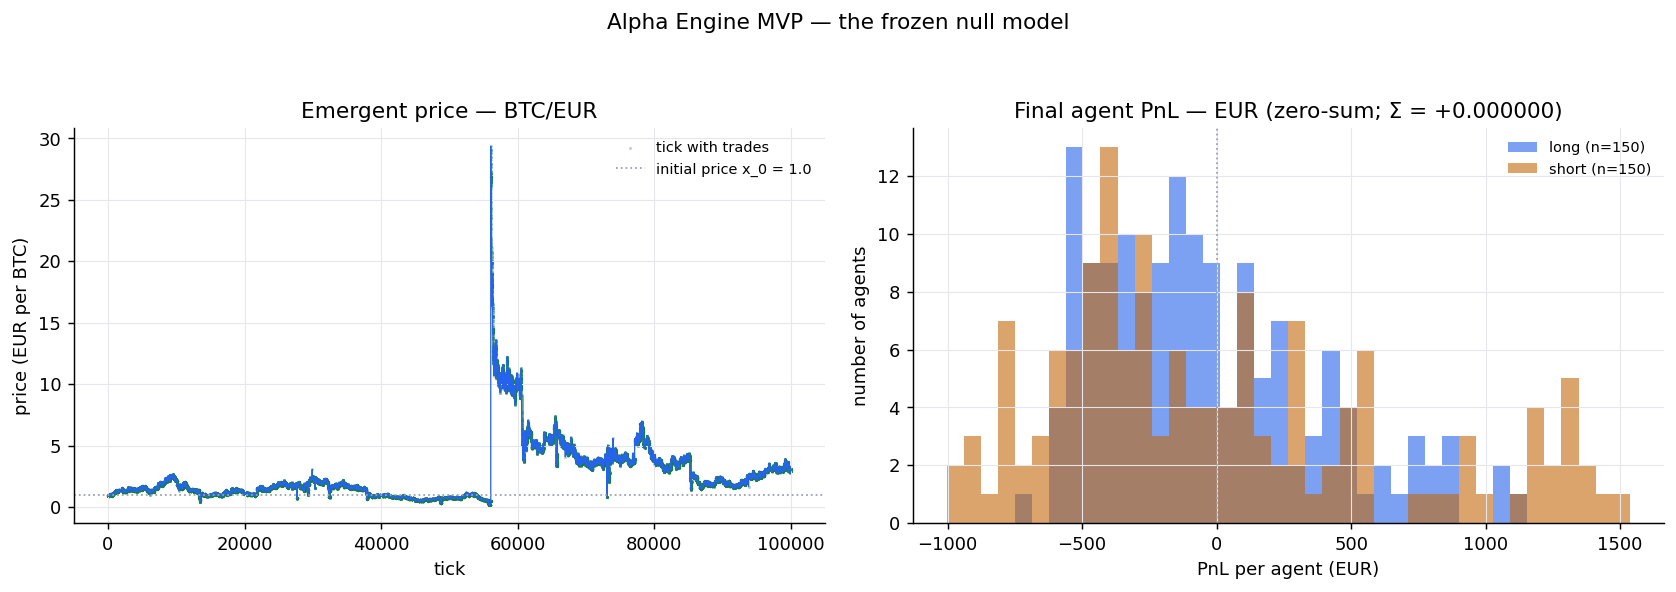
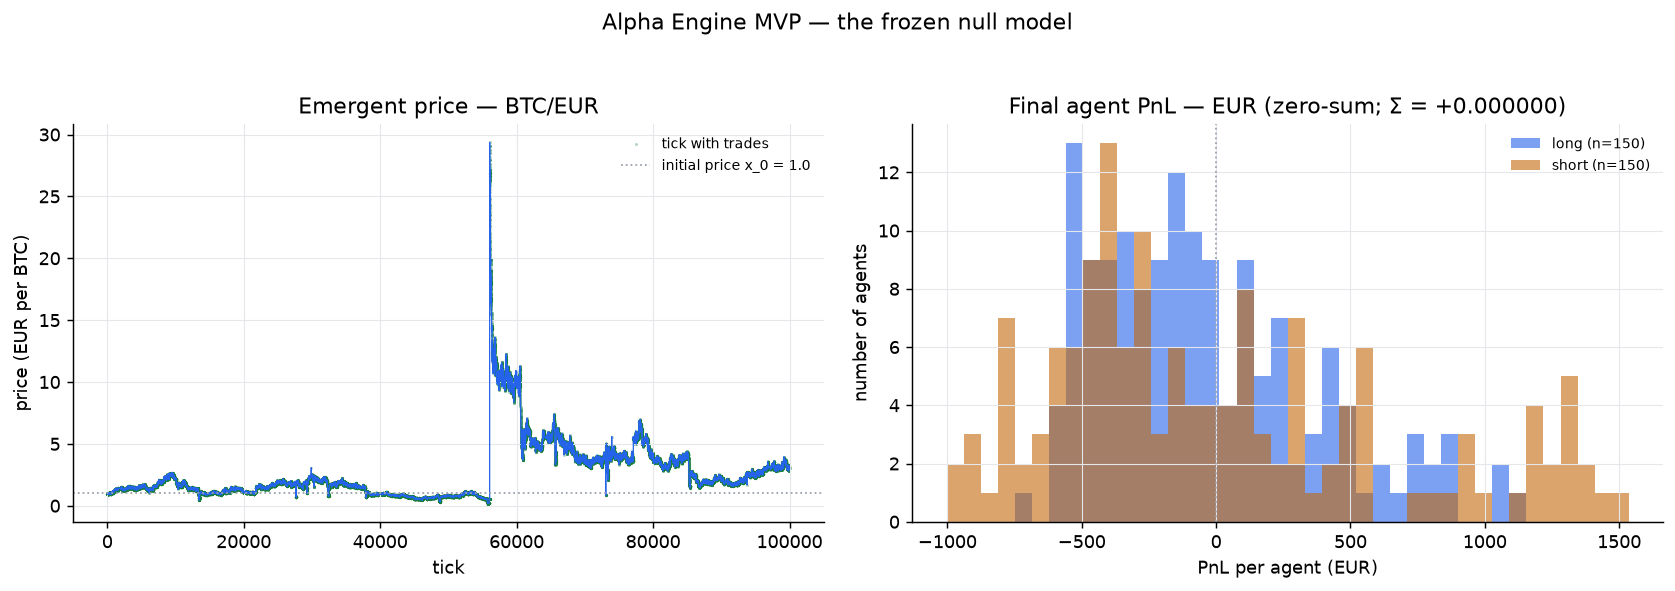
housekeeping

diff --git a/NULL/simulation_mvp.py b/NULL/simulation_mvp.py
@@ -1233,6 +1233,12 @@ class Simulation:
 # ═════════════════════════════════════════════════════════════════════════════
 
 if __name__ == "__main__":
+    import os
+
+    # all outputs land NEXT TO THIS FILE (the NULL/ dir), never in the CWD:
+    # relative paths would scatter pngs/csvs into whatever dir you ran from.
+    HERE = os.path.dirname(os.path.abspath(__file__))
+
     # ---------------- edit these ----------------
     N = 150          # agents per side
     T = 100_000      # ticks
@@ -1240,15 +1246,19 @@ if __name__ == "__main__":
     CAPITAL_DIST = "pareto"   # block 2a: "pareto" | "normal"
     BAND_DIST = "fixed"       # block 2b: "fixed"  | "normal"
     CLOSING = "clock"         # block 2c: "clock"  | "normal"
+    SHOW = True               # pop the figures in the IDE (they save either way)
     # --------------------------------------------
     cfg = Config(n=N, T=T, seed=SEED, capital_dist=CAPITAL_DIST,
                  band_dist=BAND_DIST, closing=CLOSING)
     print(cfg.summary())
     sim = Simulation(cfg).run()
     print(sim.summary())
-    print("wrote:", sim.write_price_csv(), sim.write_trades_csv())
+    print("wrote:",
+          sim.write_price_csv(os.path.join(HERE, "price_btc_eur.csv")),
+          sim.write_trades_csv(os.path.join(HERE, "trades_mvp.csv")))
 
     from dashboard_mvp import plot_dashboard, plot_orderbook
-    plot_dashboard(sim, save_path="dashboard_mvp.png")
-    plot_orderbook(sim, save_path="orderbook_mvp.png")
-    print("wrote: dashboard_mvp.png, orderbook_mvp.png")
+    plot_dashboard(sim, save_path=os.path.join(HERE, "dashboard_mvp.png"), show=SHOW)
+    plot_orderbook(sim, save_path=os.path.join(HERE, "orderbook_mvp.png"), show=SHOW)
+    print("wrote:", os.path.join(HERE, "dashboard_mvp.png"),
+          os.path.join(HERE, "orderbook_mvp.png"))

diff --git a/NULL/dashboard_mvp.py b/NULL/dashboard_mvp.py
@@ -43,8 +43,6 @@ def _bin_mean(x: np.ndarray, y: np.ndarray, n_bins: int = 300):
 
 def plot_dashboard(sim, save_path: str = "dashboard_mvp.png", show: bool = False):
     """The two-panel MVP dashboard: price evolution + final PnL distribution."""
-    import matplotlib
-    matplotlib.use("Agg")
     import matplotlib.pyplot as plt
 
     t = np.asarray(sim.rec_tick)
@@ -93,8 +91,9 @@ def plot_dashboard(sim, save_path: str = "dashboard_mvp.png", show: bool = False
     fig.tight_layout(rect=(0, 0, 1, 0.94))
     fig.savefig(save_path, dpi=130, bbox_inches="tight")
     if show:
-        plt.show()
-    plt.close(fig)
+        plt.show()          # pops the IDE window; returns when it is closed
+    else:
+        plt.close(fig)
     return save_path
 
 
@@ -108,8 +107,6 @@ def plot_orderbook(sim, save_path: str = "orderbook_mvp.png", show: bool = False
       asks = resting SELL orders — mostly LONGS' take-profit sells, above
              the price, plus flat shorts' resting entry residuals.
     Liquidity here is other agents' unrealized profit, waiting."""
-    import matplotlib
-    matplotlib.use("Agg")
     import matplotlib.pyplot as plt
 
     t = np.asarray(sim.rec_tick)
@@ -178,6 +175,7 @@ def plot_orderbook(sim, save_path: str = "orderbook_mvp.png", show: bool = False
     fig.tight_layout(rect=(0, 0, 1, 0.93))
     fig.savefig(save_path, dpi=130, bbox_inches="tight")
     if show:
-        plt.show()
-    plt.close(fig)
+        plt.show()          # pops the IDE window; returns when it is closed
+    else:
+        plt.close(fig)
     return save_path

diff --git a/NULL/verify/verify_mvp.py b/NULL/verify/verify_mvp.py
@@ -21,9 +21,19 @@ eyeball check: verify_default.png, verify_n2.png.
 
 from __future__ import annotations
 
+import os
+import sys
 import time
 
 import numpy as np
+
+# this file lives in NULL/; the reference (legacy) engine lives one level up,
+# in the repo root. Put the root on the path so its modules import, and
+# anchor our output PNGs next to this file instead of the CWD.
+HERE = os.path.dirname(os.path.abspath(__file__))
+ROOT = os.path.dirname(HERE)
+if ROOT not in sys.path:
+    sys.path.insert(1, ROOT)          # [0] stays HERE (simulation_mvp import)
 
 from config import Config as LegacyConfig
 from simulation import Simulation as LegacySimulation
@@ -124,8 +134,8 @@ if __name__ == "__main__":
     T = 100_000
     SEED = 9
     verdicts = []
-    for label, n, png in (("default n=150", 150, "verify_default.png"),
-                          ("default n=2", 2, "verify_n2.png")):
+    for label, n, png in (("default n=150", 150, os.path.join(HERE, "verify_default.png")),
+                          ("default n=2", 2, os.path.join(HERE, "verify_n2.png"))):
         legacy, dt_l = run_legacy(n, T, SEED)
         new, dt_m = run_mvp(n, T, SEED)
         print(f"\n=== {label} ===  legacy {dt_l:.1f}s | mvp {dt_m:.1f}s")

diff --git a/NULL/README.md b/NULL/README.md
@@ -55,7 +55,7 @@ the boxed block inside `Book.submit()`. Everything else only reads it.
 ## Run
 
 ```bash
-python simulation_mvp.py
+python NULL/simulation_mvp.py
 ```
 
 Edit the block at the bottom of the file (n, T, seed, and the three model
